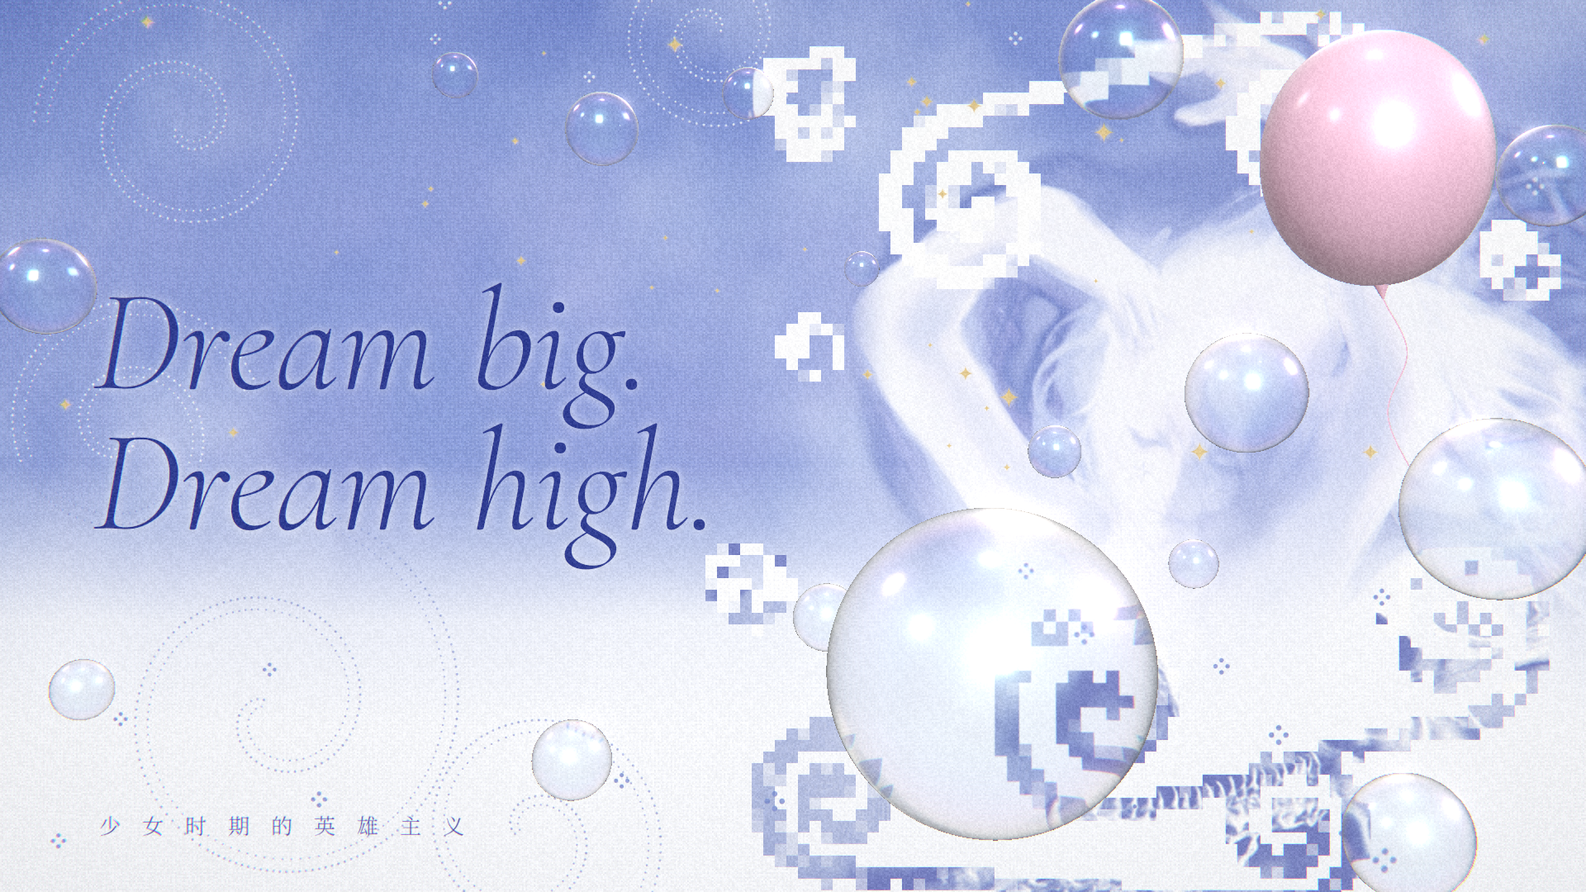
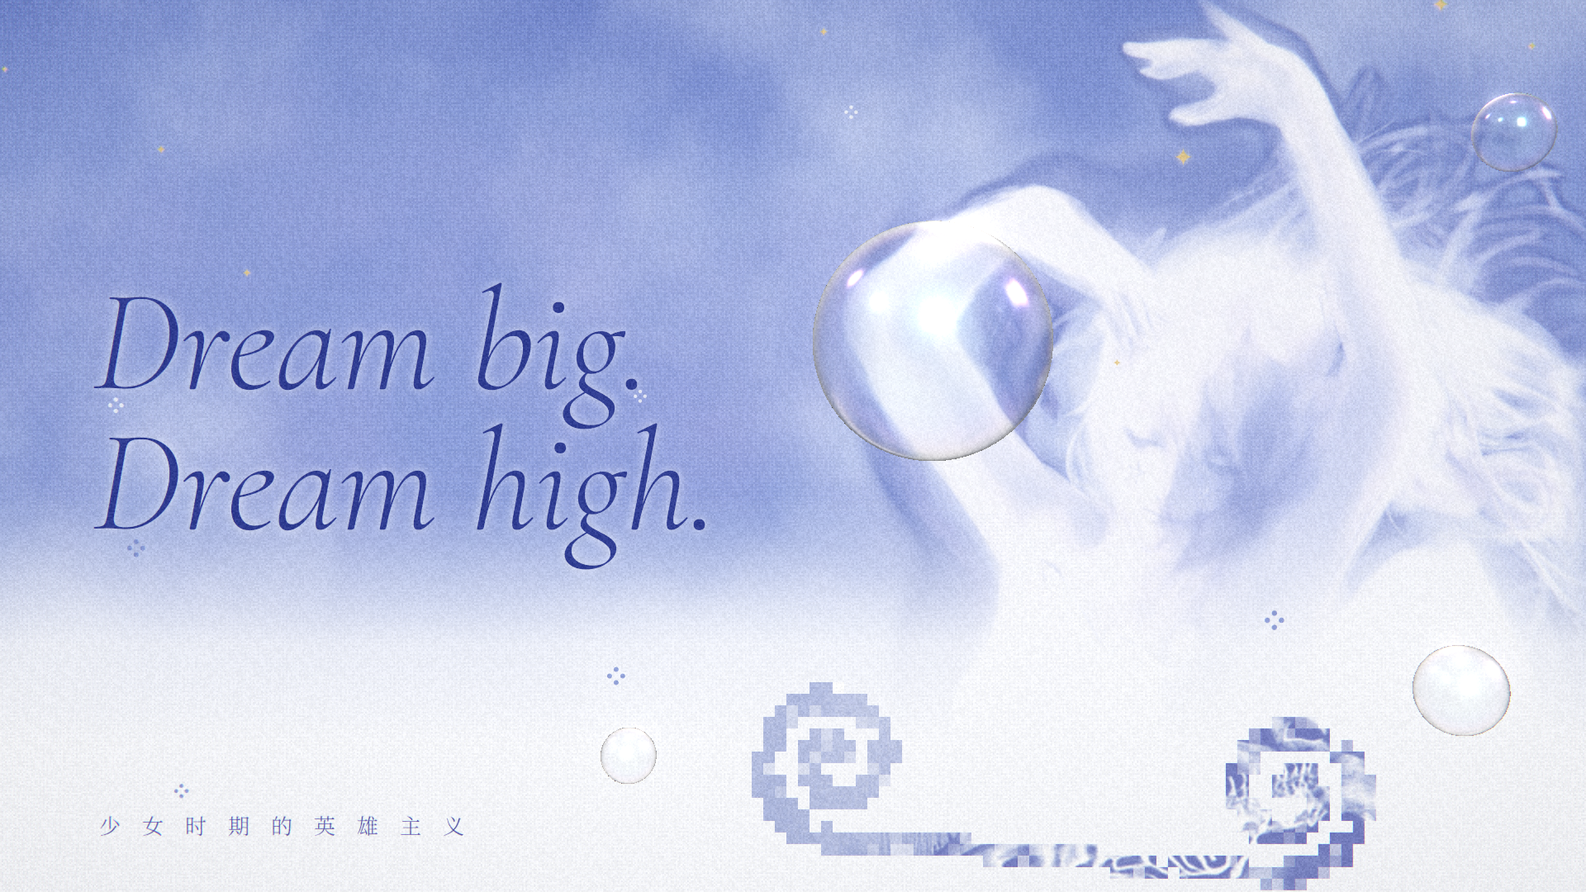
dream-high: 6-page deck, decluttered composition; gl-shot multi-page

diff --git a/decks/dream-high/index.html b/decks/dream-high/index.html
@@ -46,17 +46,89 @@ const lerp=(a,b,t)=>a+(b-a)*t, clamp=(x,a=0,b=1)=>Math.min(b,Math.max(a,x));
 const hex=h=>[parseInt(h.slice(1,3),16),parseInt(h.slice(3,5),16),parseInt(h.slice(5,7),16)];
 const mix3=(a,b,t)=>[lerp(a[0],b[0],t),lerp(a[1],b[1],t),lerp(a[2],b[2],t)];
 
-// ---------- 2D poster (all in 1920x1080 space, drawn at 2x)
-function poster(){
+// ---------- pages (1920x1080 space)
+// 每页只保留一个主体:cover=舞者, 2=气球, 3=舞者大图, 4=骨骼, 5=纯文字, 6=气球收尾
+const T1='italic 300 {S}px "Cormorant Garamond","Noto Serif SC",serif';
+const SUB={t:'少女时期的英雄主义',x:120,y:H-70,font:'300 26px "Noto Serif SC",serif',color:'#4a58a6',ls:26};
+const PAGES=[
+ {seed:11,sky:0,fade:[600,900],dancer:{cx:1480,s:1.04,y:-24},bone:{x:720,y:330,w:1180},pw:'grad',
+  pairs:[[[1010,920,95,1],[1560,960,100,-1],1.2,240]],stars:8,cross:[4,3],lace:[],
+  text:[{t:'Dream big.',x:112,y:470,font:T1.replace('{S}',176),color:'#2f3d93',glow:1},
+        {t:'Dream high.',x:112,y:640,font:T1.replace('{S}',176),color:'#2f3d93',glow:1},SUB],
+  bubbles:[[1120,430,1.2,.6],[1760,830,1.4,.22],[760,900,1.2,.14],[1840,170,1.0,.2]]},
+ {seed:22,sky:3,fade:[780,1080],bone:{x:720,y:330,w:1180},pw:'grad',pairs:[],stars:6,cross:[3,3],lace:[[1410,420,340,-1]],
+  text:[{t:'Dream big.',x:112,y:610,font:T1.replace('{S}',230),color:'#2f3d93',glow:1},
+        {t:'把愿望吹得比自己更大',x:122,y:700,font:'300 28px "Noto Serif SC",serif',color:'#4a58a6',ls:16}],
+  balloon:{x:1410,y:400,s:1.1},bubbles:[[900,300,1.2,.2],[1750,800,1.4,.3],[1000,880,1.2,.12]]},
+ {seed:33,sky:6,fade:[650,950],dancer:{cx:1260,s:1.12,y:-60},bone:{x:720,y:330,w:1180},pw:'grad',
+  pairs:[[[1780,900,110,-1],[1400,1000,100,1],1.2,220]],stars:7,cross:[3,2],lace:[],
+  text:[{t:'少女时期',x:120,y:500,font:'300 116px "Noto Serif SC",serif',color:'#2f3d93',ls:14,glow:1},
+        {t:'的英雄主义',x:120,y:640,font:'300 116px "Noto Serif SC",serif',color:'#2f3d93',ls:14,glow:1},
+        {t:'Heroism, in girlhood.',x:126,y:730,font:T1.replace('{S}',46),color:'#4a58a6'}],
+  bubbles:[[820,300,1.2,.3],[1700,350,1.4,.16],[700,880,1.0,.12]]},
+ {seed:44,sky:9,fade:[0,300],paper:'#dfe5f6',bone:{x:880,y:-220,w:1100},pw:'bone',ht:300,
+  pairs:[[[1500,330,170,1],[1050,560,150,-1],1.3,260],[[1700,820,140,-1],[1250,900,150,1],1.3,260]],stars:3,cross:[4,0],lace:[],
+  text:[{t:'Dream',x:112,y:520,font:T1.replace('{S}',200),color:'#2f3d93'},
+        {t:'high.',x:112,y:710,font:T1.replace('{S}',200),color:'#2f3d93'},SUB],
+  bubbles:[[1180,520,1.2,.5],[1800,330,1.4,.2],[700,900,1.0,.14]]},
+ {seed:55,sky:12,fade:[0,320],paper:'#dfe5f6',bone:{x:720,y:330,w:1180},pw:'white',ht:320,starY:320,
+  pairs:[[[1700,190,90,1],[1290,230,80,-1],1.1,170]],stars:6,cross:[3,0],lace:[],
+  text:[{t:'Look up long enough,',x:960,y:490,font:T1.replace('{S}',96),color:'#2f3d93',align:'center'},
+        {t:'and the ceiling becomes sky.',x:960,y:610,font:T1.replace('{S}',96),color:'#2f3d93',align:'center'},
+        {t:'抬头够久,天花板也会变成天空',x:960,y:760,font:'300 26px "Noto Serif SC",serif',color:'#4a58a6',ls:12,align:'center'}],
+  bubbles:[[200,860,1.2,.3],[1750,820,1.4,.22],[1560,430,1.0,.12]]},
+ {seed:66,sky:15,fade:[820,1080],bone:{x:700,y:330,w:1180},pw:'grad',
+  pairs:[],stars:8,cross:[3,3],lace:[],
+  text:[{t:'Keep rising.',x:112,y:580,font:T1.replace('{S}',200),color:'#2f3d93',glow:1},SUB],
+  balloon:{x:1560,y:330,s:.8},bubbles:[[1000,300,1.2,.35],[1350,780,1.4,.2],[1800,820,1.2,.28],[500,150,1.0,.14]]}
+];
+
+try{ await document.fonts.load('300 40px "Noto Serif SC"',PAGES.flatMap(p=>p.text.map(o=>o.t)).join('')); }catch(e){}
+
+// ---------- cached source canvases (duotoned once, reused by every page)
+const box=(src,dw,dh,rad)=>{const o=new Float32Array(src.length),t=new Float32Array(src.length),n=2*rad+1;
+  for(let j=0;j<dh;j++){let s0=0;for(let i=-rad;i<=rad;i++)s0+=src[j*dw+clamp(i,0,dw-1)];
+    for(let i=0;i<dw;i++){t[j*dw+i]=s0/n;s0+=src[j*dw+Math.min(dw-1,i+rad+1)]-src[j*dw+Math.max(0,i-rad)];}}
+  for(let i=0;i<dw;i++){let s0=0;for(let j=-rad;j<=rad;j++)s0+=t[clamp(j,0,dh-1)*dw+i];
+    for(let j=0;j<dh;j++){o[j*dw+i]=s0/n;s0+=t[Math.min(dh-1,j+rad+1)*dw+i]-t[Math.max(0,j-rad)*dw+i];}}
+  return o;};
+// 04 dancer: blue→white duotone, black ground becomes transparent
+const dancerC=(()=>{const dw=dancer.width,dh=dancer.height,c=document.createElement('canvas');c.width=dw;c.height=dh;const x=c.getContext('2d');
+  x.drawImage(dancer,0,0);const im=x.getImageData(0,0,dw,dh),d=im.data;
+  const dark=hex('#4d61b2'),tint=hex('#aebbea');
+  let A=new Float32Array(dw*dh);
+  for(let k=0;k<A.length;k++){const l=(.299*d[k*4]+.587*d[k*4+1]+.114*d[k*4+2])/255;A[k]=sm(clamp((l-.05)/.25));}
+  A=box(box(A,dw,dh,9),dw,dh,9);
+  for(let j=0;j<dh;j++)for(let i=0;i<dw;i++){
+    const k=(j*dw+i)*4,r=d[k],gg=d[k+1],b=d[k+2],l=(.299*r+.587*gg+.114*b)/255;
+    const ll=Math.pow(l,.8);
+    let col=ll<.5?mix3(dark,tint,ll*2):mix3(tint,[255,255,255],(ll-.5)*2);
+    col=[col[0]+(r-gg)*.14,col[1]-(r-gg)*.04,col[2]+(r-gg)*.04];
+    const e=Math.min(i,dw-1-i)/70, t=j/70;
+    const a=sm(clamp((A[j*dw+i]-.10)/.25))*sm(clamp(e))*sm(clamp(t));
+    d[k]=col[0];d[k+1]=col[1];d[k+2]=col[2];d[k+3]=a*255;}
+  x.putImageData(im,0,0);return c;})();
+// 05 bone: blue-grey duotone
+const boneSrc=(()=>{const bw=bone.width,bh=bone.height,c=document.createElement('canvas');c.width=bw;c.height=bh;const x=c.getContext('2d');
+  x.drawImage(bone,0,0);const im=x.getImageData(0,0,bw,bh),d=im.data;
+  const sh=hex('#5f74c0'),pk=hex('#e9b9cf');
+  for(let k=0;k<d.length;k+=4){const l=(.299*d[k]+.587*d[k+1]+.114*d[k+2])/255;
+    const t=clamp((l-.34)/.6);let col=mix3(sh,[255,255,255],Math.pow(t,1.15));
+    col=mix3(col,pk,clamp(.5-t)*.35);d[k]=col[0];d[k+1]=col[1];d[k+2]=col[2];}
+  x.putImageData(im,0,0);return c;})();
+
+// ---------- 2D poster
+function poster(P){
+  const R=rng(P.seed*7919+20261111);
   const S=2,cv=document.createElement('canvas');cv.width=W*S;cv.height=H*S;const g=cv.getContext('2d');
   g.scale(S,S);g.imageSmoothingQuality='high';
 
-  // 1. cloudy periwinkle sky (01): blue with violet patches and pale clouds
+  // 1. cloudy periwinkle sky (01)
   {const w=320,h=180,c=document.createElement('canvas');c.width=w;c.height=h;const x=c.getContext('2d');
-   const im=x.createImageData(w,h);
+   const im=x.createImageData(w,h),o=P.sky;
    const deep=hex('#7186cf'),mid=hex('#97a9e0'),pale=hex('#c9d3f1'),vio=hex('#9a8fd4');
    for(let j=0;j<h;j++)for(let i=0;i<w;i++){
-     const n=fbm(i/60,j/60), n2=fbm(i/45+9,j/45+4), n3=fbm(i/18+3,j/18+7);
+     const n=fbm(i/60+o,j/60+o*.7), n2=fbm(i/45+9+o,j/45+4), n3=fbm(i/18+3,j/18+7+o);
      let col=mix3(deep,mid,clamp(n*1.25+j/h*.1));
      col=mix3(col,pale,clamp((n2-.42)*2.6)*.8);
      col=mix3(col,vio,clamp((n-.5)*2.2)*.35);
@@ -64,49 +136,25 @@ function poster(){
      const k=(j*w+i)*4;im.data[k]=col[0];im.data[k+1]=col[1];im.data[k+2]=col[2];im.data[k+3]=255;}
    x.putImageData(im,0,0);g.drawImage(c,0,0,W,H);}
 
-  // 2. dancer (04): blue→white duotone, black ground becomes transparent, soft-focus
-  {const dw=dancer.width,dh=dancer.height,c=document.createElement('canvas');c.width=dw;c.height=dh;const x=c.getContext('2d');
-   x.drawImage(dancer,0,0);const im=x.getImageData(0,0,dw,dh),d=im.data;
-   const dark=hex('#4d61b2'),tint=hex('#aebbea');
-   // figure mask = heavily blurred luminance, so shadows inside the body stay opaque (blue) instead of vanishing
-   let A=new Float32Array(dw*dh);
-   for(let k=0;k<A.length;k++){const l=(.299*d[k*4]+.587*d[k*4+1]+.114*d[k*4+2])/255;A[k]=sm(clamp((l-.05)/.25));}
-   const box=(src,rad)=>{const o=new Float32Array(src.length),t=new Float32Array(src.length),n=2*rad+1;
-     for(let j=0;j<dh;j++){let s0=0;for(let i=-rad;i<=rad;i++)s0+=src[j*dw+clamp(i,0,dw-1)];
-       for(let i=0;i<dw;i++){t[j*dw+i]=s0/n;s0+=src[j*dw+Math.min(dw-1,i+rad+1)]-src[j*dw+Math.max(0,i-rad)];}}
-     for(let i=0;i<dw;i++){let s0=0;for(let j=-rad;j<=rad;j++)s0+=t[clamp(j,0,dh-1)*dw+i];
-       for(let j=0;j<dh;j++){o[j*dw+i]=s0/n;s0+=t[Math.min(dh-1,j+rad+1)*dw+i]-t[Math.max(0,j-rad)*dw+i];}}
-     return o;};
-   A=box(box(A,9),9);
-   for(let j=0;j<dh;j++)for(let i=0;i<dw;i++){
-     const k=(j*dw+i)*4,r=d[k],gg=d[k+1],b=d[k+2],l=(.299*r+.587*gg+.114*b)/255;
-     const ll=Math.pow(l,.8);
-     let col=ll<.5?mix3(dark,tint,ll*2):mix3(tint,[255,255,255],(ll-.5)*2);
-     col=[col[0]+(r-gg)*.14,col[1]-(r-gg)*.04,col[2]+(r-gg)*.04];
-     const e=Math.min(i,dw-1-i)/70, t=j/70;
-     const a=sm(clamp((A[j*dw+i]-.10)/.25))*sm(clamp(e))*sm(clamp(t));
-     d[k]=col[0];d[k+1]=col[1];d[k+2]=col[2];d[k+3]=a*255;}
-   x.putImageData(im,0,0);
-   const sc=H/dh*1.04,dW=dw*sc;
-   g.save();g.filter='blur(1.3px)';g.drawImage(c,1010,-24,dW,dh*sc);g.restore();
-   // soft white glow around the figure
-   g.save();g.globalCompositeOperation='screen';g.filter='blur(30px)';g.globalAlpha=.28;g.drawImage(c,1010,-24,dW,dh*sc);g.restore();}
+  // 2. dancer
+  if(P.dancer){const {cx,s,y}=P.dancer,sc=H/dancerC.height*s,dW=dancerC.width*sc,dH=dancerC.height*sc;
+   g.save();g.filter='blur(1.3px)';g.drawImage(dancerC,cx-dW/2,y,dW,dH);g.restore();
+   g.save();g.globalCompositeOperation='screen';g.filter='blur(30px)';g.globalAlpha=.28;g.drawImage(dancerC,cx-dW/2,y,dW,dH);g.restore();}
 
-  // 3. fade to white paper (01: lower half is white)
-  {const f=g.createLinearGradient(0,560,0,880);
-   f.addColorStop(0,'rgba(251,252,255,0)');f.addColorStop(.6,'rgba(251,252,255,.88)');f.addColorStop(1,'rgba(251,252,255,1)');
-   g.fillStyle=f;g.fillRect(0,560,W,H-560);}
+  // 3. fade to white paper
+  {const [f0,f1]=P.fade,f=g.createLinearGradient(0,f0,0,f1),pc=hex(P.paper||'#fbfcff').join(',');
+   f.addColorStop(0,`rgba(${pc},0)`);f.addColorStop(.6,`rgba(${pc},.88)`);f.addColorStop(1,`rgba(${pc},1)`);
+   g.fillStyle=f;g.fillRect(0,f0,W,H-f0);}
 
   // pixel-scroll mask grid
   const C=14,GW=Math.ceil(W/C),GH=Math.ceil(H/C);
-  const cell=new Uint8Array(GW*GH),hole=new Uint8Array(GW*GH);
+  const cell=new Uint8Array(GW*GH);
   const mark=(arr,px,py,rc)=>{const cx=px/C,cy=py/C,r=Math.ceil(rc);
     for(let j=-r;j<=r;j++)for(let i=-r;i<=r;i++){const X=Math.floor(cx)+i,Y=Math.floor(cy)+j;
       if(X<0||Y<0||X>=GW||Y>=GH)continue;const dx=X+.5-cx,dy=Y+.5-cy;if(dx*dx+dy*dy<=rc*rc)arr[Y*GW+X]=1;}};
   const spiral=(cx,cy,Rr,dir,a0,turns=1.65,rEnd=7)=>{const pts=[],Th=turns*Math.PI*2;
     for(let th=0;th<=Th;th+=.02){const t=th/Th,r=rEnd+(Rr-rEnd)*Math.pow(1-t,.9),a=a0+dir*th;pts.push([cx+r*Math.cos(a),cy+r*Math.sin(a)]);}return pts;};
   const bez=(p0,p1,p2,p3)=>{const o=[];for(let t=0;t<=1;t+=.005){const u=1-t;o.push([u*u*u*p0[0]+3*u*u*t*p1[0]+3*u*t*t*p2[0]+t*t*t*p3[0],u*u*u*p0[1]+3*u*u*t*p1[1]+3*u*t*t*p2[1]+t*t*t*p3[1]]);}return o;};
-  const paths=[]; // for dot-lace reuse
   function pair(A,B,rc,tailL){
     const dAB=Math.atan2(B[1]-A[1],B[0]-A[0]);
     const a0=(s,dir,ang)=>Math.atan2(dir*Math.cos(ang)*s,-dir*Math.sin(ang)*s);
@@ -115,49 +163,32 @@ function poster(){
     const tb=(dir,a)=>[dir*Math.sin(a),-dir*Math.cos(a)];
     const tA=tb(A[3],aA),tB=tb(B[3],aB),P0=sA[0],P3=sB[0];
     const tail=bez(P0,[P0[0]+tA[0]*tailL,P0[1]+tA[1]*tailL],[P3[0]+tB[0]*tailL,P3[1]+tB[1]*tailL],P3);
-    [sA,sB].forEach(p=>{p.forEach(([x,y])=>mark(cell,x,y,rc));paths.push(p);});
-    tail.forEach(([x,y])=>mark(cell,x,y,rc*.82));paths.push(tail);
+    [sA,sB].forEach(p=>p.forEach(([x,y])=>mark(cell,x,y,rc)));
+    tail.forEach(([x,y])=>mark(cell,x,y,rc*.82));
   }
-  // [cx,cy,R,dir]
-  pair([1580,150,125,1],[1180,250,110,-1],1.2,220);
-  pair([1760,760,115,-1],[1330,850,135,1],1.2,260);
-  pair([1010,960,95,1],[1560,1000,100,-1],1.2,240);
-  // flower blobs
-  const blob=(cx,cy,n,rr)=>{for(let i=0;i<n;i++){const a=R()*6.28,d=R()*rr*.8;mark(cell,cx+Math.cos(a)*d*C,cy+Math.sin(a)*d*C,rr*(.55+R()*.5));}
-    for(let i=0;i<2;i++){const a=R()*6.28,d=R()*rr*.5;mark(hole,cx+Math.cos(a)*d*C,cy+Math.sin(a)*d*C,1.1);}};
-  blob(980,120,6,3.4);blob(1840,330,5,3);blob(900,700,6,3.4);blob(1000,420,4,2.4);
-  for(let i=0;i<cell.length;i++)if(hole[i])cell[i]=0;
-  // stray cells (broken edge)
+  P.pairs.forEach(([A,B,rc,tl])=>pair(A,B,rc,tl));
   for(let j=1;j<GH-1;j++)for(let i=1;i<GW-1;i++){const k=j*GW+i;
     if(cell[k]&&R()<.05&&(!cell[k-1]||!cell[k+1]||!cell[k-GW]||!cell[k+GW]))cell[k]=0;}
 
-  // 4. dot lace (01): fine dotted double-outline spirals at the left, behind the type
-  {const lace=[[330,860,250,1],[150,520,170,-1],[640,1010,190,-1],[220,150,180,1],[860,40,120,1]];
-   const dots=(pts,off,rad)=>{let acc=0,px=null;pts.forEach(([x,y],i)=>{if(i===0){px=[x,y];return;}
+  // 4. dot lace (only where the page asks for it)
+  {const dots=(pts,rad)=>{let acc=0,px=null;pts.forEach(([x,y],i)=>{if(i===0){px=[x,y];return;}
       acc+=Math.hypot(x-px[0],y-px[1]);px=[x,y];if(acc<7.5)return;acc=0;
-      const al=y<560?.8:.85, c=y<560?[255,255,255]:[150,165,215];
-      g.fillStyle=`rgba(${c[0]},${c[1]},${c[2]},${al*(0.7+R()*.3)})`;g.beginPath();g.arc(x,y,rad,0,6.283);g.fill();});};
-   lace.forEach(([cx,cy,Rr,dir])=>{const a=R()*6.28;
-     dots(spiral(cx,cy,Rr,dir,a,1.9,10),0,1.5);dots(spiral(cx,cy,Rr-16,dir,a,1.8,10),0,1.2);});}
+      const c=y<P.fade[0]+150?[255,255,255]:[150,165,215];
+      g.fillStyle=`rgba(${c[0]},${c[1]},${c[2]},${.8*(0.7+R()*.3)})`;g.beginPath();g.arc(x,y,rad,0,6.283);g.fill();});};
+   P.lace.forEach(([cx,cy,Rr,dir])=>{const a=R()*6.28;
+     dots(spiral(cx,cy,Rr,dir,a,1.9,10),1.5);dots(spiral(cx,cy,Rr-16,dir,a,1.8,10),1.2);});}
 
-  // 5. bone (05) duotoned, available to the lower cells
+  // 5. bone placed for the lower cells
   const boneC=document.createElement('canvas');boneC.width=W*S;boneC.height=H*S;
-  {const bw=bone.width,bh=bone.height,c=document.createElement('canvas');c.width=bw;c.height=bh;const x=c.getContext('2d');
-   x.drawImage(bone,0,0);const im=x.getImageData(0,0,bw,bh),d=im.data;
-   const sh=hex('#5f74c0'),pk=hex('#e9b9cf');
-   for(let k=0;k<d.length;k+=4){const l=(.299*d[k]+.587*d[k+1]+.114*d[k+2])/255;
-     const t=clamp((l-.34)/.6);let col=mix3(sh,[255,255,255],Math.pow(t,1.15));
-     col=mix3(col,pk,clamp(.5-t)*.35);d[k]=col[0];d[k+1]=col[1];d[k+2]=col[2];}
-   x.putImageData(im,0,0);
-   const bx=boneC.getContext('2d');bx.scale(S,S);bx.imageSmoothingQuality='high';
-   const sc=1180/bw;bx.drawImage(c,720,330,bw*sc,bh*sc);}
+  {const bx=boneC.getContext('2d');bx.scale(S,S);bx.imageSmoothingQuality='high';
+   const sc=P.bone.w/boneSrc.width;bx.drawImage(boneSrc,P.bone.x,P.bone.y,boneSrc.width*sc,boneSrc.height*sc);}
 
-  // 6. pixel-scroll cells: white pressed onto the photo above, photo (bone) showing through below
+  // 6. pixel-scroll cells
   g.imageSmoothingEnabled=false;
   for(let j=0;j<GH;j++)for(let i=0;i<GW;i++){
     if(!cell[j*GW+i])continue;
     const x=i*C,y=j*C,yc=y+C/2;
-    const pw=clamp((860-yc)/220);                 // 1 = white cells, 0 = photo cells
+    const pw=P.pw==='white'?1:P.pw==='bone'?0:clamp((860-yc)/220);
     const white=R()<pw;
     let a=R()<.16?.35+.4*R():1;
     if(white){g.globalAlpha=a*.97;g.fillStyle='#ffffff';g.fillRect(x,y,C,C);}
@@ -165,33 +196,30 @@ function poster(){
   }
   g.globalAlpha=1;g.imageSmoothingEnabled=true;
 
-  // 7. stars: gold 4-point (upper), blue cross sparkles (lower)
+  // 7. a few stars
   const star=(x,y,r,col,gl)=>{g.save();g.shadowColor=gl;g.shadowBlur=r*1.2;g.fillStyle=col;g.beginPath();
     g.moveTo(x,y-r);g.quadraticCurveTo(x+r*.1,y-r*.1,x+r,y);g.quadraticCurveTo(x+r*.1,y+r*.1,x,y+r);
     g.quadraticCurveTo(x-r*.1,y+r*.1,x-r,y);g.quadraticCurveTo(x-r*.1,y-r*.1,x,y-r);g.fill();g.restore();};
-  for(let i=0;i<46;i++){const x=R()*W,y=Math.pow(R(),1.4)*600;star(x,y,3+R()*R()*13,'rgba(226,200,140,.95)','rgba(255,240,200,.9)');}
+  for(let i=0;i<P.stars;i++){const x=R()*W,y=Math.pow(R(),1.4)*(P.starY||600);star(x,y,4+R()*R()*12,'rgba(226,200,140,.95)','rgba(255,240,200,.9)');}
   const cross=(x,y,s,col)=>{g.fillStyle=col;[[0,-1],[0,1],[-1,0],[1,0]].forEach(([dx,dy])=>{g.beginPath();g.arc(x+dx*s,y+dy*s,s*.38,0,6.283);g.fill();});};
-  for(let i=0;i<16;i++){cross(R()*W,640+R()*400,5+R()*4,'rgba(122,142,208,.8)');}
-  for(let i=0;i<10;i++){cross(R()*W,R()*560,4+R()*3,'rgba(255,255,255,.75)');}
+  for(let i=0;i<P.cross[0];i++)cross(R()*W,Math.max(P.fade[0]+60,640)+R()*300,5+R()*4,'rgba(122,142,208,.8)');
+  for(let i=0;i<P.cross[1];i++)cross(R()*W,R()*Math.min(560,P.fade[0]+200),4+R()*3,'rgba(255,255,255,.75)');
 
-  // 8. halftone dot screen
-  {const pc=document.createElement('canvas');pc.width=pc.height=5;const p=pc.getContext('2d');
+  // 8. halftone
+  {const ht=P.ht||620;
+   const pc=document.createElement('canvas');pc.width=pc.height=5;const p=pc.getContext('2d');
    p.fillStyle='#fff';p.beginPath();p.arc(2.5,2.5,1.1,0,6.283);p.fill();
-   g.save();g.globalAlpha=.16;g.fillStyle=g.createPattern(pc,'repeat');g.fillRect(0,0,W,620);g.restore();
+   g.save();g.globalAlpha=.16;g.fillStyle=g.createPattern(pc,'repeat');g.fillRect(0,0,W,ht);g.restore();
    const pd=document.createElement('canvas');pd.width=pd.height=5;const q2=pd.getContext('2d');
    q2.fillStyle='#8294d0';q2.beginPath();q2.arc(2.5,2.5,.9,0,6.283);q2.fill();
-   g.save();g.globalAlpha=.14;g.fillStyle=g.createPattern(pd,'repeat');g.fillRect(0,620,W,H-620);g.restore();}
+   g.save();g.globalAlpha=.14;g.fillStyle=g.createPattern(pd,'repeat');g.fillRect(0,ht,W,H-ht);g.restore();}
 
   // 9. type
-  g.textAlign='left';g.fillStyle='#2f3d93';
-  g.shadowColor='rgba(255,255,255,.7)';g.shadowBlur=24;
-  g.font='italic 300 176px "Cormorant Garamond","Noto Serif SC",serif';
-  g.fillText('Dream big.',112,470);
-  g.fillText('Dream high.',112,640);
-  g.shadowBlur=0;
-  g.font='300 26px "Noto Serif SC",serif';g.fillStyle='#4a58a6';
-  if(g.letterSpacing!==undefined)g.letterSpacing='26px';
-  g.fillText('少女时期的英雄主义',120,H-70);
+  P.text.forEach(o=>{
+    g.save();g.textAlign=o.align||'left';g.fillStyle=o.color;g.font=o.font;
+    if(o.glow){g.shadowColor='rgba(255,255,255,.7)';g.shadowBlur=24;}
+    if(g.letterSpacing!==undefined)g.letterSpacing=(o.ls||0)+'px';
+    g.fillText(o.t,o.x,o.y);g.restore();});
   const t=new THREE.CanvasTexture(cv);t.colorSpace=THREE.SRGBColorSpace;t.anisotropy=8;return t;
 }
 
@@ -207,7 +235,7 @@ scene.environmentIntensity=.85;
 const cam=new THREE.PerspectiveCamera(32,W/H,0.1,50);cam.position.set(0,0,9);
 
 const bgH=2*Math.tan(THREE.MathUtils.degToRad(16))*(9+3);
-const bg=new THREE.Mesh(new THREE.PlaneGeometry(bgH*W/H,bgH),new THREE.MeshBasicMaterial({map:poster(),toneMapped:false}));
+const bg=new THREE.Mesh(new THREE.PlaneGeometry(bgH*W/H,bgH),new THREE.MeshBasicMaterial({toneMapped:false}));
 bg.position.z=-3;scene.add(bg);
 
 const U=5.16/1080, wx=px=>(px-960)*U, wy=py=>(540-py)*U;
@@ -220,25 +248,28 @@ const balloon=new THREE.Mesh(new THREE.SphereGeometry(1,128,96),balMat);balloon.
 const kn=new THREE.Mesh(new THREE.ConeGeometry(.07,.16,24),balMat);kn.position.set(.03,-1.2,0);kn.rotation.z=Math.PI+.1;bal.add(kn);
 const curve=new THREE.CatmullRomCurve3([[.04,-1.27,0],[.2,-1.75,.1],[.05,-2.3,0],[.3,-3.0,.1]].map(a=>new THREE.Vector3(...a)));
 bal.add(new THREE.Mesh(new THREE.TubeGeometry(curve,40,.006,6),new THREE.MeshBasicMaterial({color:'#f3c5d6'})));
-bal.scale.setScalar(.62);bal.position.set(wx(1665)*8.7/9,wy(210)*8.7/9,.3);scene.add(bal);
-const hot=new THREE.PointLight(0xffffff,1.6,0,2);hot.position.set(bal.position.x-.5,bal.position.y+.5,2.4);scene.add(hot);
+scene.add(bal);
+const hot=new THREE.PointLight(0xffffff,.55,0,2);scene.add(hot);
 
-// soap bubbles (03): nearly clear, thin-film edge, pin highlights
+// soap bubbles (03): nearly clear, thin-film edge, pin highlights. Pool of 4, per-page placement.
 const soap=()=>new THREE.MeshPhysicalMaterial({
   color:'#ffffff',metalness:0,roughness:0,transmission:1,thickness:.35,ior:1.12,dispersion:3,
   iridescence:1,iridescenceIOR:1.3,iridescenceThicknessMinimum:120,iridescenceThicknessMaximum:520,
   clearcoat:1,clearcoatRoughness:0,envMapIntensity:1.8,
   attenuationColor:new THREE.Color('#9db4f2'),attenuationDistance:3.2});
-const bubbles=[];
-// [px,py,z,r] — kept off the type block (x<900, 380<y<680)
-const B=[
-  [1190,830,1.4,.8],
-  [1500,470,1.2,.3],[1810,600,1.8,.42],[700,930,1.2,.2],[1010,760,1.2,.17],
-  [1880,200,1.0,.26],[1350,60,1.4,.3],[720,170,.5,.2],[1040,330,.2,.1],
-  [60,330,1.2,.24],[560,90,.8,.12],[1450,700,1.4,.12],[1700,1010,1.6,.3],[90,820,.8,.16],[900,120,.6,.14],[1280,560,.8,.14]
-];
-B.forEach(([px,py,z,r],i)=>{const m=new THREE.Mesh(new THREE.SphereGeometry(r,96,64),soap());
-  const pf=(9-z)/9;m.position.set(wx(px)*pf,wy(py)*pf,z);m.userData.b=[m.position.x,m.position.y,z,i];scene.add(m);bubbles.push(m);});
+const bubbles=[0,1,2,3].map(()=>{const m=new THREE.Mesh(new THREE.SphereGeometry(1,96,64),soap());scene.add(m);return m;});
+
+let cur=0,PG=PAGES[0],balBase=[0,0];
+function setPage(i){
+  cur=((i%PAGES.length)+PAGES.length)%PAGES.length;PG=PAGES[cur];
+  const old=bg.material.map;bg.material.map=poster(PG);bg.material.needsUpdate=true;if(old)old.dispose();
+  const b=PG.balloon;bal.visible=hot.visible=!!b;
+  if(b){bal.scale.setScalar(b.s);balBase=[wx(b.x)*8.7/9,wy(b.y)*8.7/9];bal.position.set(balBase[0],balBase[1],.3);
+    hot.position.set(balBase[0]-.5*b.s,balBase[1]+.5*b.s,2.4);}
+  bubbles.forEach((m,k)=>{const d=PG.bubbles[k];m.visible=!!d;if(!d)return;
+    const [px,py,z,r]=d,pf=(9-z)/9;m.scale.setScalar(r);m.position.set(wx(px)*pf,wy(py)*pf,z);m.userData.b=[m.position.x,m.position.y,z,k];});
+  document.title='Dream High '+(cur+1)+'/'+PAGES.length;
+}
 
 // post: bloom only on highlights >1, chromatic fringe, film grain
 const comp=new EffectComposer(renderer);comp.setSize(W,H);
@@ -251,7 +282,7 @@ comp.addPass(new ShaderPass({
   fragmentShader:`uniform sampler2D tDiffuse;uniform float t;varying vec2 v;
   float r(vec2 p){return fract(sin(dot(p,vec2(12.9898,78.233)))*43758.5453);}
   void main(){vec2 d=v-.5;float k=dot(d,d);
-    vec3 c=vec3(texture2D(tDiffuse,v+d*k*.004).r,texture2D(tDiffuse,v).g,texture2D(tDiffuse,v-d*k*.004).b);
+    vec3 c=vec3(texture2D(tDiffuse,v+d*k*.0022).r,texture2D(tDiffuse,v).g,texture2D(tDiffuse,v-d*k*.0022).b);
     c*=1.-k*.12;
     vec2 gp=floor(v*vec2(960.,540.));
     float gr=(r(gp+t)-.5)*.07+(r(v*1920.+t*1.7)-.5)*.03;
@@ -260,13 +291,19 @@ comp.addPass(new ShaderPass({
 const grain=comp.passes[comp.passes.length-1];
 
 function frame(t){
-  bal.position.y=wy(210)*8.7/9+Math.sin(t*.5)*.08;bal.rotation.z=Math.sin(t*.4)*.03;
-  bubbles.forEach(m=>{const [x,y,z,i]=m.userData.b;m.position.set(x+Math.sin(t*.35+i)*.04,y+Math.sin(t*.6+i*1.7)*.07,z);});
+  if(PG.balloon){bal.position.y=balBase[1]+Math.sin(t*.5)*.08;bal.rotation.z=Math.sin(t*.4)*.03;}
+  bubbles.forEach(m=>{if(!m.visible)return;const [x,y,z,i]=m.userData.b;m.position.set(x+Math.sin(t*.35+i)*.04,y+Math.sin(t*.6+i*1.7)*.07,z);});
   grain.uniforms.t.value=Math.floor(t*12)/12;
   comp.render();
 }
+const startPage=(q.has('p')?+q.get('p')-1:+(location.hash.slice(1)||1)-1)||0;
+setPage(startPage);
 if(fixed!==null){frame(fixed);document.body.dataset.ready=1;}
-else{(function f(ms){frame(ms/1000);requestAnimationFrame(f)})(0);}
+else{
+  addEventListener('keydown',e=>{if(['ArrowRight','PageDown',' '].includes(e.key))setPage(cur+1);if(['ArrowLeft','PageUp'].includes(e.key))setPage(cur-1);});
+  addEventListener('click',()=>setPage(cur+1));
+  (function f(ms){frame(ms/1000);requestAnimationFrame(f)})(0);
+}
 })();
 </script>
 </body>

diff --git a/tools/gl-shot.js b/tools/gl-shot.js
@@ -1,20 +1,27 @@
-// Screenshot a WebGL page with software GL. Usage: node tools/gl-shot.js <html> <out.png> [t]
+// Screenshot a WebGL page with software GL. Usage: node tools/gl-shot.js <html> <out.png> [t] [page]
+// <out.png> may contain %d; with page=all pages 1..$PAGES (default 6) are rendered.
 const path = require('path');
 const core = process.env.PLAYWRIGHT_CORE || 'playwright-core';
 const { chromium } = require(core);
 (async () => {
-  const [html, out, t = '8'] = process.argv.slice(2);
+  const [html, out, t = '8', page = ''] = process.argv.slice(2);
   const b = await chromium.launch({
     executablePath: process.env.CHROME_BIN,
     args: ['--use-gl=angle', '--use-angle=swiftshader', '--enable-unsafe-swiftshader', '--ignore-gpu-blocklist'],
   });
   const p = await b.newPage({ viewport: { width: 1920, height: 1080 } });
   p.on('console', m => console.log('[page]', m.text()));
-  await p.goto('file://' + path.resolve(html) + '?t=' + t, { waitUntil: 'networkidle' });
-  await p.evaluate(() => document.fonts.ready);
-  await p.waitForSelector('body[data-ready]', { timeout: 120000 });
-  await p.waitForTimeout(500);
-  console.log('title:', await p.title());
-  await p.screenshot({ path: out });
+  const shoot = async (pg, file) => {
+    await p.goto('file://' + path.resolve(html) + '?t=' + t + (pg ? '&p=' + pg : ''), { waitUntil: 'networkidle' });
+    await p.evaluate(() => document.fonts.ready);
+    await p.waitForSelector('body[data-ready]', { timeout: 180000 });
+    await p.waitForTimeout(500);
+    console.log('title:', await p.title());
+    await p.screenshot({ path: file });
+  };
+  if (page === 'all') {
+    const n = +(process.env.PAGES || 6);
+    for (let i = 1; i <= n; i++) await shoot(i, out.replace('%d', i));
+  } else await shoot(page, out.replace('%d', page || 1));
   await b.close();
 })();
